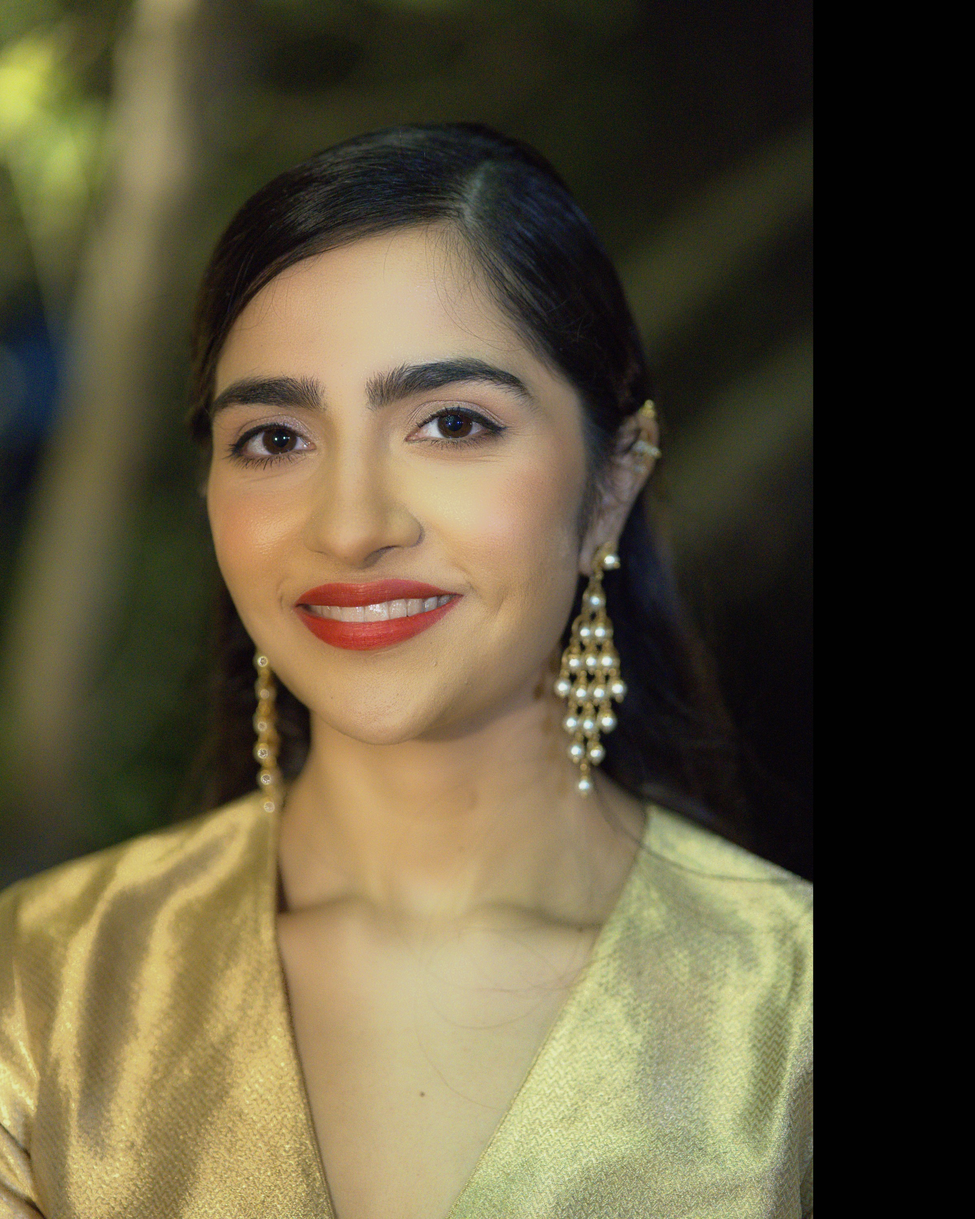
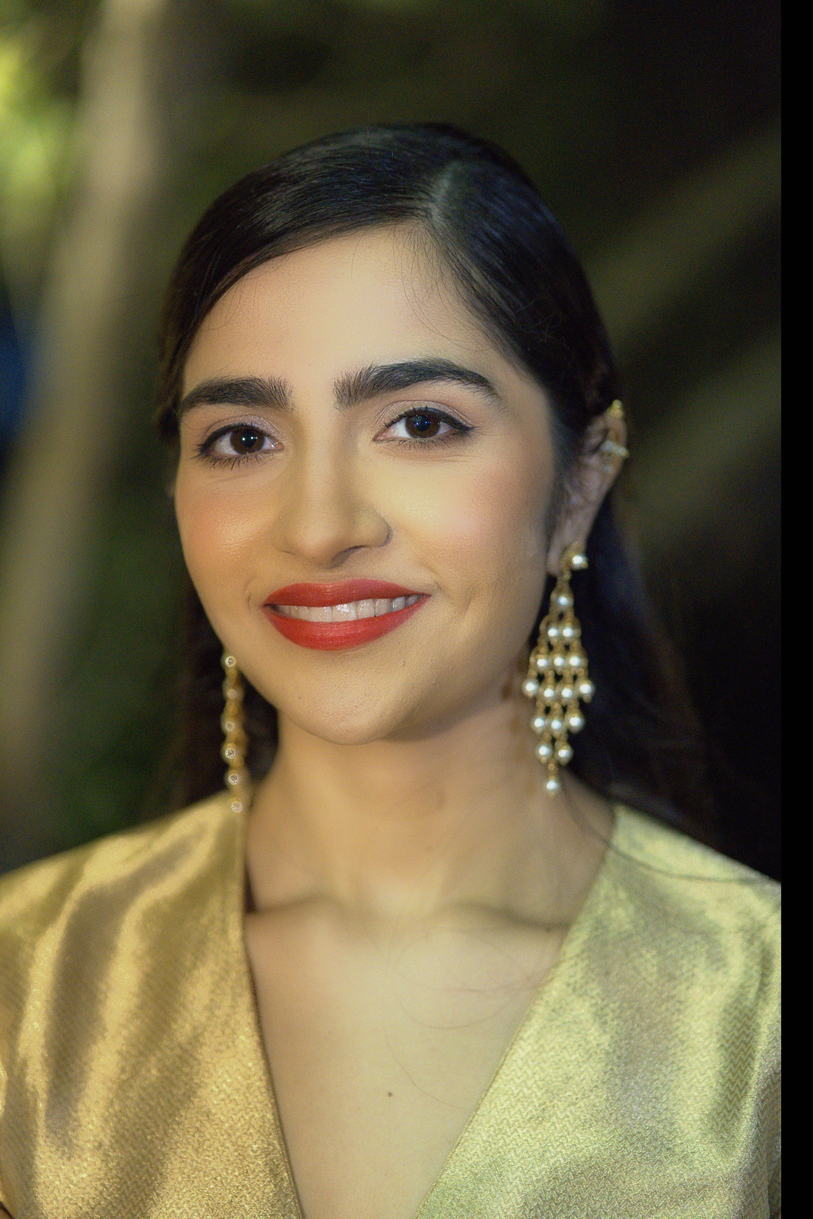
Featured Rukmini: re-crop to 2:3 (matches Ashika) so browser cover-crops the dark right edge — photo now fills the tile edge-to-edge

diff --git a/index.html b/index.html
@@ -9,7 +9,7 @@
 <link rel="preconnect" href="https://fonts.googleapis.com" />
 <link rel="preconnect" href="https://fonts.gstatic.com" crossorigin />
 <link href="https://fonts.googleapis.com/css2?family=Playfair+Display:ital,wght@0,400;0,500;0,600;0,700;1,400;1,500;1,600&family=Inter:wght@300;400;500;600&family=Space+Grotesk:wght@300;400;500&display=swap" rel="stylesheet" />
-<link rel="stylesheet" href="css/style.css?v=27" />
+<link rel="stylesheet" href="css/style.css?v=28" />
 </head>
 <body>
 
@@ -521,7 +521,7 @@
 <script src="https://cdn.jsdelivr.net/npm/gsap@3.12.5/dist/gsap.min.js"></script>
 <script src="https://cdn.jsdelivr.net/npm/gsap@3.12.5/dist/ScrollTrigger.min.js"></script>
 <script src="https://cdn.jsdelivr.net/npm/lenis@1.1.13/dist/lenis.min.js"></script>
-<script src="js/cinema.js?v=27"></script>
-<script src="js/main.js?v=27"></script>
+<script src="js/cinema.js?v=28"></script>
+<script src="js/main.js?v=28"></script>
 </body>
 </html>
